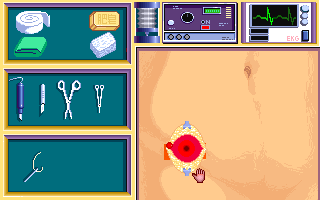
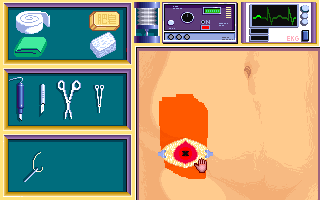
dr

diff --git a/game/game/intro/ch/c33/dr/dr1F-2.htm b/game/game/intro/ch/c33/dr/dr1F-2.htm
@@ -39,10 +39,14 @@
 <b><font color=blue>*** 手術</font></b>
 
 1.選擇開刀治療卻沒到開刀房開刀，知名度+1，考核-2。
-2.手術過程中若有出血，可用敷巾擦拭掉。若出血太多未擦拭（很大一團時），手術會自動停止。
+2.手術刀移動太快（超過2個像點）便算斷線，斷線3次手術會自動失敗停止。
+  但手術刀若停留在同一位置太久，則會導致出血。
+3.手術過程中若有出血，可用敷巾擦拭掉。若出血太多未擦拭（很大一團時），手術會自動失敗停止。
 <img src="oc00-1.png"><img src="oc00-2.png">
-3.在不影響手術的情況下，可用止血鉗來暫時止血（按滑鼠右鍵放下，尖端在出血處）。
+4.在不影響手術的情況下，可用止血鉗來暫時止血（按滑鼠右鍵放下，尖端在出血處）。
   放下止血鉗後，若依然出血，表示放的位置不對，可拿起重新放置（從尾端拿起）。
+5.縫合傷口時，一定要縫在黑線上，不可縫到傷口的血珠上，否則便是失誤，會被指責。
+6.開刀結束後，院長會指責疏失的地方，若沒有指責便是成功（不會顯示增加的屬性）。
 
 <A name="o1">一.【闌尾切除術】
 
@@ -51,22 +55,35 @@
 2.消毒程序：
   (1)先用肥皂洗手，並戴上手套。
 <img src="oc01-2.png"><img src="oc01-3.png">
-  (2)用紗布沾藥水消毒手術部位。
+  (2)用紗布沾藥水消毒手術部位。手術刀左上角（不是下邊的刀切處）經過的點都必須塗到。
+<img src="oc01-4.png">
 3.切割步驟：
   (1)從病人右下腹，沿病人之右上至左下方向以手術刀切開皮膚，並用手拉開。
-     這裡有兩種切開方式，一是用滑鼠直接斜切，容易斷點或過快，導致手術手敗。
-     另一種是用鍵盤慢慢階梯式斜切，比較不容易失敗，但容易出血（用止血鉗暫時止血）。
+     這裡有兩種切開方式，一是用滑鼠直接斜切，容易斷線或過快，導致手術手敗。
+     另一種是用鍵盤以階梯式斜切，比較不容易失敗（但不要停頓，否則會出血）。
+<img src="oc01-5.png"><img src="oc01-6.png">
   (2)以手術刀切開皮下層，並用手拉開。
+<img src="oc01-7.png"><img src="oc01-8.png">
   (3)以手術刀切開筋膜，並用手拉開。
-  (4)以手術刀在腹膜上作一小切口，再以剪刀剪開腹膜（也可用手術刀直接切開）。
+<img src="oc01-9.png"><img src="oc01-10.png">
+  (4)以手術刀在腹膜上作一小切口，再以剪刀剪開腹膜。也可用手術刀直接切開。
+<img src="oc01-11.png">
   (5)以自動張開器打開患者腹部。
+<img src="oc01-12.png"><img src="oc01-13.png">
 4.手術步驟：
-  (1)先以Babcock氏鉗將闌尾的尖端（右端）夾住。
-  (2)再以Kelly止血鉗夾住闌尾靠近盲腸的左端。
-  (3)以手術刀將闌尾切下。
-  (4)放回Babcock氏鉗與Kelly止血鉗，並用手拿走闌尾。
-  (5)縫合盲腸上切除闌尾後所留下之傷口。
-  (6)取下自動張開器使傷口閉合，並縫合傷口。
+  (1)先以Babcock氏鉗將闌尾的尖端（右端）夾住，再以Kelly止血鉗夾住闌尾靠近盲腸的左端。
+     左上、右下紅框分別為止血鉗和Babcock氏鉗圖形左上角可放置的位置。
+<img src="oc01-14.png"><img src="oc01-14a.png">
+  (2)以手術刀將闌尾切下。紅框為可切割的範圍，不要超過了。
+<img src="oc01-15.png"><img src="oc01-15a.png">
+  (3)放回Babcock氏鉗與Kelly止血鉗，並用手拿走闌尾。
+<img src="oc01-16.png"><img src="oc01-17.png">
+  (4)縫合盲腸上切除闌尾後所留下之傷口（2針即可）。上邊紅框為縫點。
+     但由於程式誤以針線圖形左上角做為縫點判斷，故下邊紅框才是實際上允許的縫點。
+<img src="oc01-18.png"><img src="oc01-18a.png">
+  (5)取下自動張開器使傷口閉合，並縫合傷口。
+     注意程式誤以針線圖形左上角做為縫點判斷，故實際縫處應在黑線下方（不易對準，十之八九會失敗）。
+<img src="oc01-19.png"><img src="oc01-20.png">
 5.關閉麻醉機。
 
 <A name="o2">二.【赫尼亞修補術】
@@ -76,30 +93,29 @@
 2.消毒程序：
   (1)先用肥皂洗手，並戴上手套。
 <img src="oc02-2.png"><img src="oc02-3.png">
-  (2)用紗布沾藥水消毒手術部位。
-     試過橫直各種部位，都會被院長指責，以下採用橫切法，目前只被指責消毒藥水塗抹的問題。
+  (2)用紗布沾藥水消毒手術部位。手術刀左上角（不是下邊的刀切處）經過的點都必須塗到。
 <img src="oc02-4.png">
 3.切割步驟：
-  (1)從病患腹股溝膨出部位，以手術刀切開皮膚，並用手拉開。
+  (1)從病患腹股溝膨出部位，以手術刀切開皮膚（橫直方向均可），並用手拉開。
      可按下滑鼠左鍵，配合鍵盤的方向鍵來開刀，傷口比較不會歪掉，以下均然。
 <img src="oc02-5.png"><img src="oc02-6.png">
   (2)以手術刀切開皮下層，並用手拉開。
 <img src="oc02-7.png"><img src="oc02-8.png">
   (3)以手術刀切開筋膜，並用手拉開。
 <img src="oc02-9.png"><img src="oc02-10.png">
-  (4)以手術刀在腹膜上作一小切口，再以剪刀剪開腹膜。注意剪刀的切口是在雙剪閉合處（也可用手術刀直接切開）。
-<img src="oc02-11.png"><img src="oc02-12.png">
+  (4)以手術刀在腹膜上作一小切口，再以剪刀剪開腹膜。也可用手術刀直接切開。
+<img src="oc02-11.png">
   (5)以牽引器打開患者腹部。
-<img src="oc02-13.png"><img src="oc02-14.png">
+<img src="oc02-12.png"><img src="oc02-13.png">
 4.手術步驟：
   (1)用手打開赫尼亞囊。
-<img src="oc02-15.png">
+<img src="oc02-14.png">
   (2)以手指將赫尼亞囊內含的腸子推回腹腔。
+<img src="oc02-15.png">
+  (3)將赫尼亞囊加以縫合（以開口為中心，在附近縫3針即可，要避開血珠）。
 <img src="oc02-16.png">
-  (3)將赫尼亞囊加以縫合（以開口為中心，用鍵盤方向鍵移動，縫3針即可）。
-<img src="oc02-17.png">
-  (4)取下牽引器使傷口閉合，並縫合傷口（用鍵盤方向鍵與空白鍵，按1～2次縫1針）。
-<img src="oc02-18.png"><img src="oc02-19.png">
+  (4)取下牽引器使傷口閉合，並縫合傷口（用鍵盤方向鍵與空白鍵，按1～2次縫1針，但要避開血珠）。
+<img src="oc02-17.png"><img src="oc02-18.png">
 5.關閉麻醉機。
 
 <A name="o3">三.【部份胃切除術】
@@ -109,7 +125,7 @@
 2.消毒程序：
   (1)先用肥皂洗手，並戴上手套。
 <img src="oc03-2.png"><img src="oc03-3.png">
-  (2)用紗布沾藥水消毒手術部位（以下手術過程，院長全無指責）。
+  (2)用紗布沾藥水消毒手術部位。
 <img src="oc03-4.png">
 3.切割步驟：
   (1)從病患上腹部之中央略偏左處至肚臍上方，以手術刀切開皮膚，並用手拉開。

diff --git a/game/game/intro/ch/c33/dr/dr1F-4.htm b/game/game/intro/ch/c33/dr/dr1F-4.htm
@@ -16,7 +16,6 @@
           (無操作)經驗+8～10，知名度+2，考核+1
           (萬靈丹)經驗+8～10，知名度+2，考核+3
 過多檢查：(額外)經驗-x，人緣-x，x=病人抱怨次數
-大面積亂抹消毒藥水：(額外)經驗-2，人緣-2
 有操作之治療，會依照操作的失誤程度減少經驗值。
 
 一.【傷寒】
@@ -253,10 +252,10 @@
 <img src="i05-3.png"><img src="i05-4.png">
 2.用紗布在手術部位塗上消毒藥水。
 <img src="i05-5.png">
-3.用手術刀在胸腔右側橫切出一個夠長的開口（略斜無所謂，寬度最少18點）。
-  儘量只下刀一次，並慢慢移動滑鼠以避免斷線（下刀次數加斷線次數超過3次就算失敗）。
+3.用手術刀在胸腔右側手臂下方橫切出一個夠長的開口（略斜無所謂，長度必須在18～30個像素點）。
+  下刀後儘量慢慢移動滑鼠以避免斷線（移動超過1個像點便算斷線，斷線3次就算失敗）。
 <img src="i05-6.png">
-4.用手將切口撐開。
+4.用手將切口撐開（撐不開表示切口太小）。
 <img src="i05-7.png">
 5.用止血鉗夾住導管，插入切口，導管接上引流器。
 <img src="i05-8.png"><img src="i05-9.png"><img src="i05-10.png">

diff --git a/game/game/intro/ch/c33/dr/dr1F-5.htm b/game/game/intro/ch/c33/dr/dr1F-5.htm
@@ -17,7 +17,6 @@
           (萬靈丹)經驗+8～10，知名度+2，考核+3
 過多檢查：(額外)經驗-x，人緣-x，x=病人抱怨次數
 完成三大外科手術：(額外)魅力+1
-大面積亂抹消毒藥水：(額外)經驗-2，人緣-2
 有操作之治療，會依照操作的失誤程度減少經驗與考核值。
 
 一.【盲腸炎】
@@ -83,7 +82,7 @@
 <img src="o05-1.png">
       2.X光檢查可見到積膿處(和肋膜積水相同)
 <img src="i05-2.png">
-治療：<A href="#o4">針頭吸膿術</A>
+治療：<A href="#o4">針頭吸膿</A>
 問題：這幾個月來食慾很差、人也越來越瘦，最近更是經常覺得肋骨間有壓痛
       感，甚至連呼吸都覺得有點困難。
 問題：近來呼吸不太順暢，胸部鬱悶疼痛，而且由於食慾不佳，體重一直下降，
@@ -166,7 +165,7 @@
 問題：最近時常感覺疲勞，四肢無力；而且有時便祕、有時卻又拉肚子，嘔吐
       物中常帶有血絲，不知道是什麼毛病？
 
-<A name="o4">【針頭吸膿術】
+<A name="o4">【針頭吸膿】
 
 1.用肥皂洗手並戴上手套。
 <img src="oc04-1.png"><img src="oc04-2.png">

diff --git a/game/game/welcome.htm b/game/game/welcome.htm
@@ -51,7 +51,7 @@ cellpadding="2">
 </div>
 
 <ul>
-  <li><small>2017/05/31：<b>武姬神傳說</b>：增加CG圖。<b>瘋狂醫院</b>：重寫成詳盡圖文攻略（未完），更新遊戲檔（更換肺炎X光片當機的問題檔案）。</small></li>
+  <li><small>2017/06/09：<b>武姬神傳說</b>：增加CG圖。<b>瘋狂醫院</b>：重寫成詳盡圖文攻略，更新遊戲檔（更換肺炎X光片當機的問題檔案）。</small></li>
   <li><small>2017/03/20：<b>魔法門８</b>：新增並訂正多種資訊、增加簡中版內容，提供繁中版可接受中英文謎題答案更新檔。</small></li>
   <li><small>2017/03/01：<b>富甲天下２</b>：新增1.07版（在主檔區）。<b>魔法門６</b>：訂正多種資訊、增加繁中版內容、增加裝備與魔法物品等級資訊、提供簡中版英文謎題答案更新檔。</small></li>
   <li><small>2016/12/18：<b>RS-2</b>：新增秘技。<b>炎龍騎士團１、２、外傳</b>：增加修改檔（在遊戲檔裡）。<b>驚爆實感賽車１、２、驚爆實感越野賽車</b>：提供攻略影片下載。</small></li>

diff --git a/game/game/intro/ch/c33/dr.htm b/game/game/intro/ch/c33/dr.htm
@@ -47,6 +47,26 @@
     -- -- 90 90 90
     76 03 E9 BF 03 (心肺復甦)
     -- -- 90 90 90
+4.胸腔放液術開刀斷線沒關係
+  DRMAIN.EXE
+    77 09 80 7E F2 01 77 03
+    90 90 -- -- -- -- 90 90
+5.開刀不出血
+  CURE201.EXE
+  CURE203.EXE
+  CURE208.EXE
+    80 7E FE 05 74 06 80 7E FE 07
+    -- -- -- -- 90 90 -- -- -- --
+6.闌尾切除術開刀斷線沒關係
+  CURE201.EXE
+    83 7E D6 03 7E 64
+    -- -- -- -- EB --
+7.闌尾切除術亂縫沒關係
+  CURE201.EXE
+    7D 03 E9 90 00 81 3E D4 09 89 00 (縫闌尾)
+    -- 1E -- 1B -- -- -- -- -- -- --
+    83 7E F8 01 75 11 (縫傷口)
+    -- -- -- -- 90 90
 
 修改：存檔SAVE?.REC，數值均高位元組在前
 
